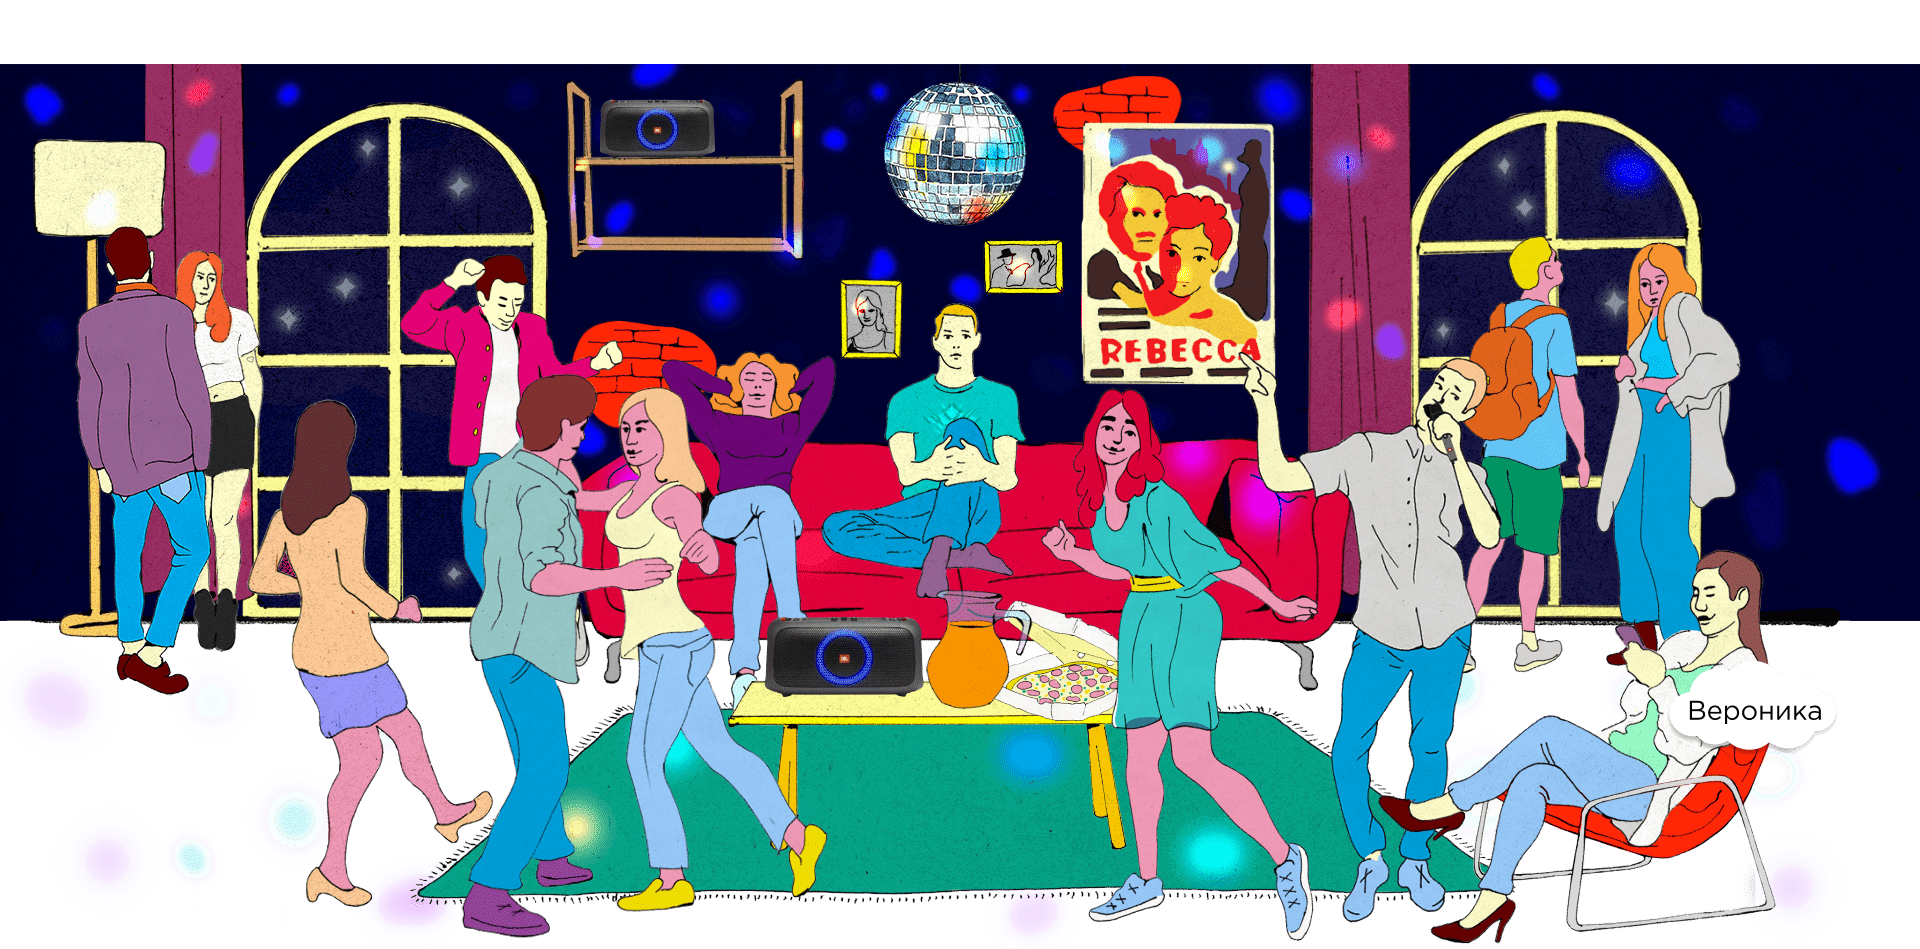
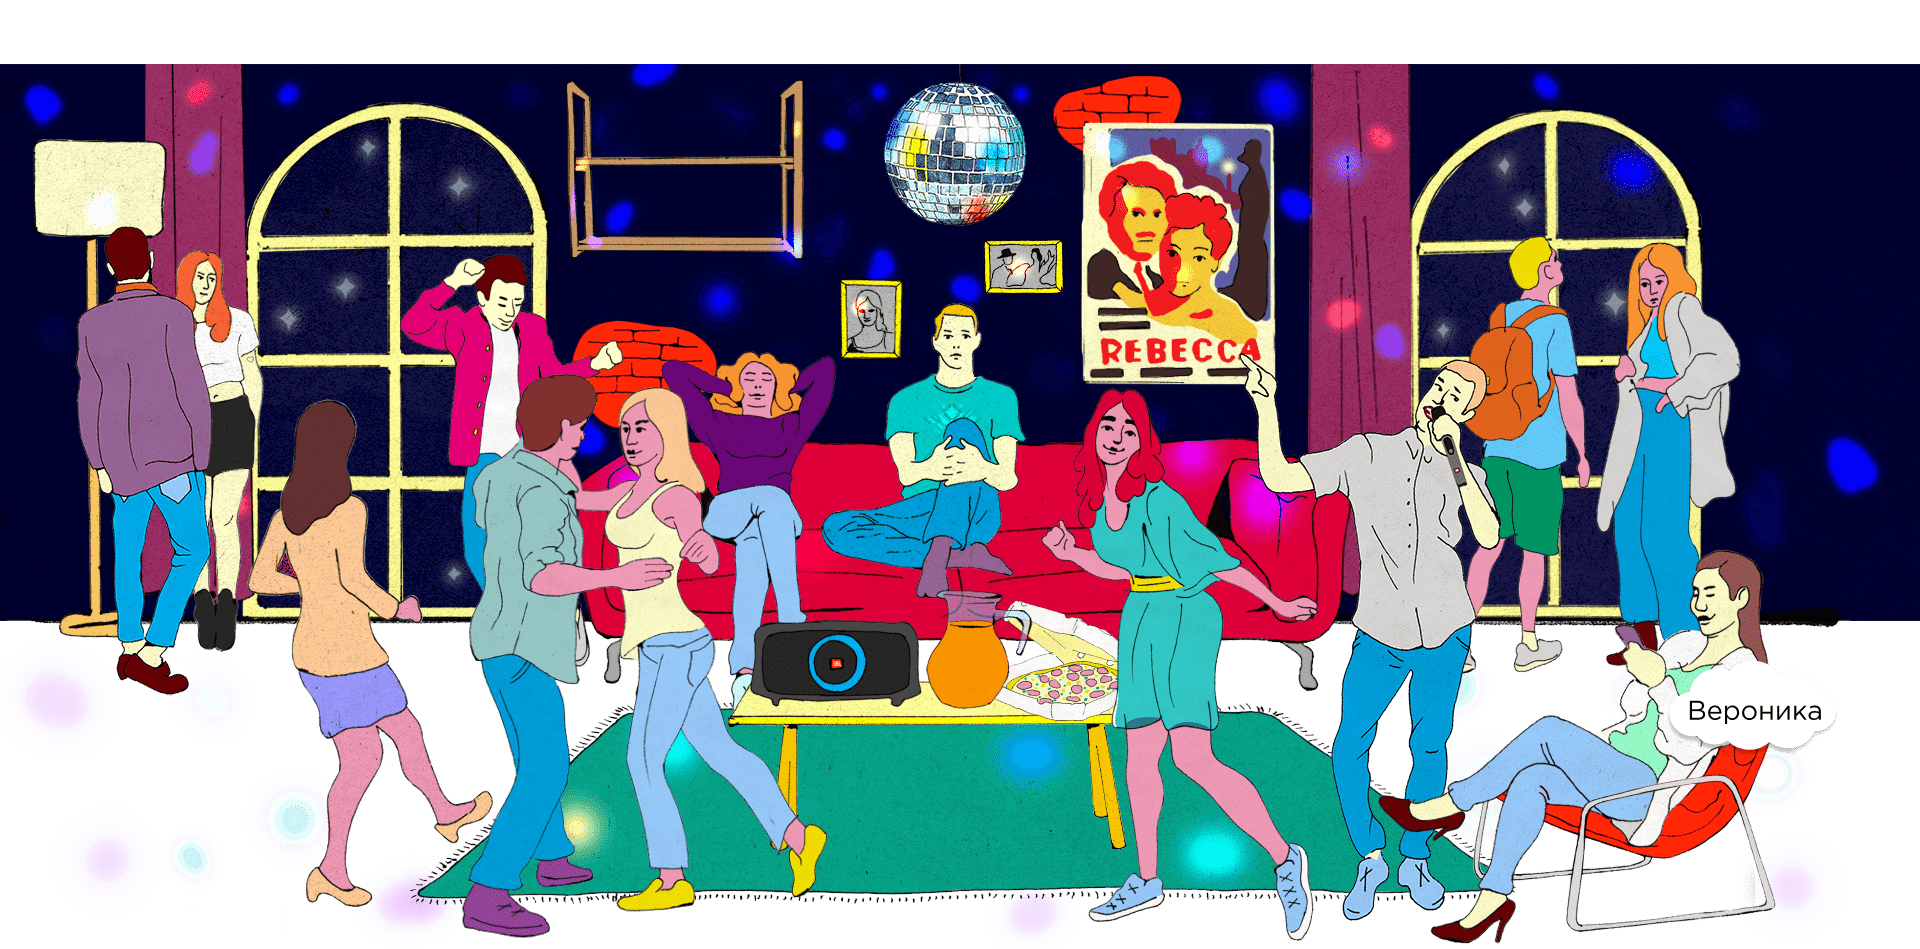
Change levels 8,9 and 10

diff --git a/src/components/Game/levelsData.js b/src/components/Game/levelsData.js
@@ -152,9 +152,9 @@ const levels = [
         nocorect: 63,
         animatePlus: [
             { id: 28, style: { left: '39.2em', top: '18.4em', width: '22.9em', height: '42.1em' } },//Парень в розовой рубашке
-            { id: 31, style: { left: '59.2em', top: '3.5em', width: '11.8em', height: '6em' } }, //Колонка
+            // { id: 31, style: { left: '59.2em', top: '3.5em', width: '11.8em', height: '6em' } }, //Колонка
             { id: 29, style: { left: '143.2em', top: '16.8em', width: '14.6em', height: '43.8em' } },//Парень с рюкзаком
-            { id: 31, style: { left: '75.9em', top: '54.7em', width: '15.8em', height: '8.1em' } }, //Колонка
+            // { id: 31, style: { left: '75.9em', top: '54.7em', width: '15.8em', height: '8.1em' } }, //Колонка
             { id: 32, style: { left: '23.7em', top: '32.7em', width: '26.4em', height: '52.1em' } }, //Девушка спиной
             { id: 37, style: { left: '45.1em', top: '30em', width: '37.6em', height: '57.4em' } },//Танцующая пара
             { id: 33, style: { left: '122.8em', top: '28.6em', width: '26.1em', height: '56.4em' } }, //Парень с микрофоном
@@ -162,9 +162,10 @@ const levels = [
             { id: 61, style: { left: '136em', top: '47.5em', width: '46.8em', height: '40.4em' } }, //Девушка в кресле Вероника
         ],
         animateMinus: [
-            { id: 31, style: { left: '59.2em', top: '3.5em', width: '11.8em', height: '6em' } }, //Колонка
-            { id: 31, style: { left: '92.8em', top: '55.3em', width: '15.8em', height: '8.1em' } }, //Колонка
+            // { id: 31, style: { left: '59.2em', top: '3.5em', width: '11.8em', height: '6em' } }, //Колонка
+            // { id: 31, style: { left: '92.8em', top: '55.3em', width: '15.8em', height: '8.1em' } }, //Колонка
             { id: 64, style: { left: '29.1em', top: '24.4em', width: '17.1em', height: '59.4em' } }, //Девушка с поднятой рукой
+            { id: 33, style: { left: '59.6em', top: '29.7em', width: '26.1em', height: '56.4em' } }, //Парень с микрофоном
         ]
     },
     {
@@ -173,16 +174,16 @@ const levels = [
         nocorect: 67,
         animatePlus: [
             { id: 28, style: { left: '39.2em', top: '18.4em', width: '22.9em', height: '42.1em' } },//Парень в розовой рубашке
-            { id: 31, style: { left: '59.2em', top: '3.5em', width: '11.8em', height: '6em' } }, //Колонка
-            { id: 31, style: { left: '75.9em', top: '54.7em', width: '15.8em', height: '8.1em' } }, //Колонка
+            // { id: 31, style: { left: '59.2em', top: '3.5em', width: '11.8em', height: '6em' } }, //Колонка
+            // { id: 31, style: { left: '75.9em', top: '54.7em', width: '15.8em', height: '8.1em' } }, //Колонка
             { id: 32, style: { left: '23.7em', top: '32.7em', width: '26.4em', height: '52.1em' } }, //Девушка спиной
             { id: 37, style: { left: '45.1em', top: '30em', width: '37.6em', height: '57.4em' } },//Танцующая пара
             { id: 34, style: { left: '85.9em', top: '31.77em', width: '27.9em', height: '55.5em' } }, //Девушка в зеленом платье
             { id: 54, style: { left: '117em', top: '29em', width: '18em', height: '53.7em' } }, //Девушка спиной в штанах
         ],
         animateMinus: [
-            { id: 31, style: { left: '59.2em', top: '3.5em', width: '11.8em', height: '6em' } }, //Колонка
-            { id: 31, style: { left: '92.8em', top: '55.3em', width: '15.8em', height: '8.1em' } }, //Колонка
+            // { id: 31, style: { left: '59.2em', top: '3.5em', width: '11.8em', height: '6em' } }, //Колонка
+            // { id: 31, style: { left: '92.8em', top: '55.3em', width: '15.8em', height: '8.1em' } }, //Колонка
             { id: 49, style: { left: '4.1em', top: '31.3em', width: '41.9em', height: '55.1em' } }, //Девушка в свитере
             { id: 68, style: { left: '126.4em', top: '27.9em', width: '19.4em', height: '53.2em' } }, //Подозрительный чел
         ]
@@ -193,8 +194,8 @@ const levels = [
         nocorect: 73,
         animatePlus: [
             { id: 28, style: { left: '131.2em', top: '18.4em', width: '22.9em', height: '42.1em' } },//Парень в розовой рубашке
-            { id: 31, style: { left: '59.2em', top: '3.5em', width: '11.8em', height: '6em' } }, //Колонка
-            { id: 31, style: { left: '95.6em', top: '54.7em', width: '15.8em', height: '8.1em' } }, //Колонка
+            // { id: 31, style: { left: '59.2em', top: '3.5em', width: '11.8em', height: '6em' } }, //Колонка
+            // { id: 31, style: { left: '95.6em', top: '54.7em', width: '15.8em', height: '8.1em' } }, //Колонка
             { id: 37, style: { left: '34.3em', top: '28.6em', width: '34.4em', height: '52.5em' } },//Танцующая пара
             { id: 34, style: { left: '65.1em', top: '31.2em', width: '27.9em', height: '55.5em' } }, //Девушка в зеленом платье
             { id: 38, style: { left: '116.1em', top: '27.8em', width: '32.3em', height: '53em' } }, //Девушка в жёлтом платье
@@ -203,8 +204,8 @@ const levels = [
         ],
         animateMinus: [
             { id: 74, style: { left: '39.6em', top: '19.2em', width: '12.5em', height: '41em' } }, //Мальчик
-            { id: 31, style: { left: '59.3em', top: '11.7em', width: '11.8em', height: '6em' } }, //Колонка
-            { id: 31, style: { left: '92.8em', top: '55.3em', width: '15.8em', height: '8.1em' } }, //Колонка
+            // { id: 31, style: { left: '59.3em', top: '11.7em', width: '11.8em', height: '6em' } }, //Колонка
+            // { id: 31, style: { left: '92.8em', top: '55.3em', width: '15.8em', height: '8.1em' } }, //Колонка
             { id: 33, style: { left: '101.3em', top: '30.7em', width: '26.1em', height: '56.4em' } }, //Парень с микрофоном
         ]
     },

diff --git a/src/context.js b/src/context.js
@@ -26,7 +26,7 @@ export default function ContextProvider({ children }) {
     const [em, setEm] = useState(getEm());
     const [globalHeight, setGlobalHeight] = useState(getHeight());
     const [screen, setScreen] = useState('start');//start / game / final
-    const [level, setLevel] = useState(0); //7 //0-9
+    const [level, setLevel] = useState(0); //0 //0-9
     const [yesno, setYesNo] = useState(null);
     const [isMobale, setIsMobale] = useState(getIsMobile());
     const [imgsLoaded, setImgsLoaded] = useState(false);
